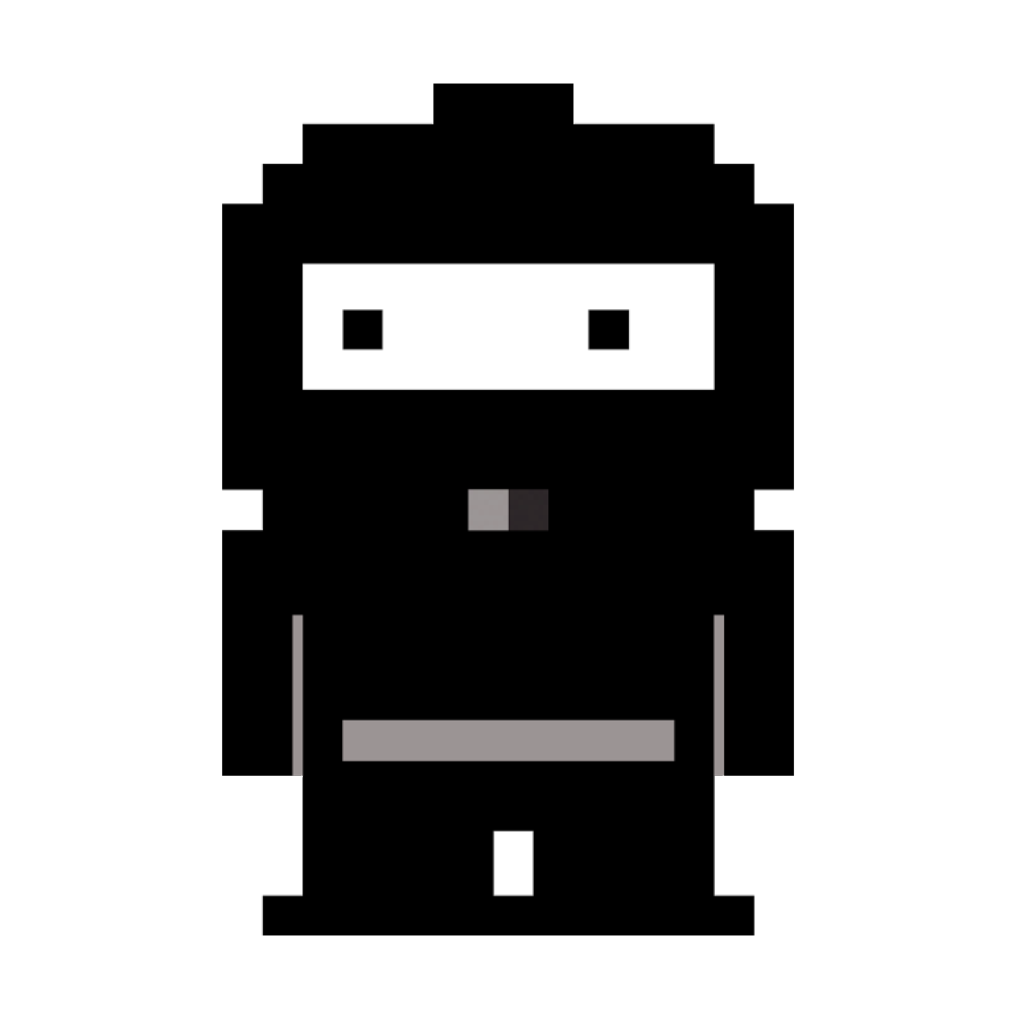
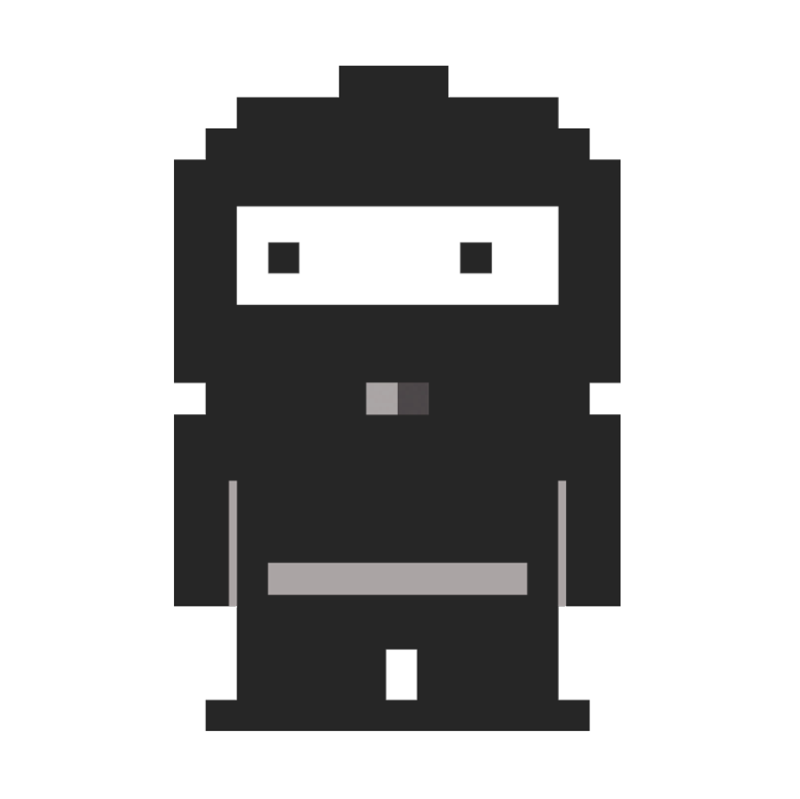
Cambio de estilo en el modal

diff --git a/index.html b/index.html
@@ -364,9 +364,9 @@
     </div>
   </div>
     <div id="modal1" class="modal">
-    <div class="modal-content">
-      <h4>Contactame</h4>
-      <form id="form1" class="col s12 m12 l5 offset-l1" >
+    <div class="modal-content" style="background-color: #252929;">
+      <h4 class="white-text">Contáctame</h4>
+      <form id="form1" class="col s12 m12 l5 offset-l1" style="background: url('img/ninja-coder.png'); background-size: contain; background-repeat: no-repeat; background-position: center;">
          <div class="row">
            <div class="input-field col s12 m6">
              <input id="first_name" type="text" class="" length="10">
@@ -399,8 +399,8 @@
          <button class="btn btn-large waves-effect waves-light orange" type="submit" name="#!">Enviar</button>
        </form>
     </div>
-    <div class="modal-footer">
-      <a href="#!" class=" modal-action modal-close waves-effect waves-green btn-flat">Listo!</a>
+    <div class="modal-footer" style="background-color: #252929;">
+      <a href="#!" class=" modal-action modal-close waves-effect waves-green btn-flat blue">Listo!</a>
     </div>
   </div>
   <footer class="page-footer teal">

diff --git a/css/style.css b/css/style.css
@@ -115,3 +115,12 @@ body {
     color: black;
     cursor: pointer;
 }
+
+.modal-content input:not([type]), input[type=text], 
+input[type=password], input[type=email], input[type=url],
+ input[type=time], input[type=date], 
+ input[type=datetime-local], input[type=tel], 
+ input[type=number], input[type=search], 
+ textarea.materialize-textarea {
+  color: gray;
+}
